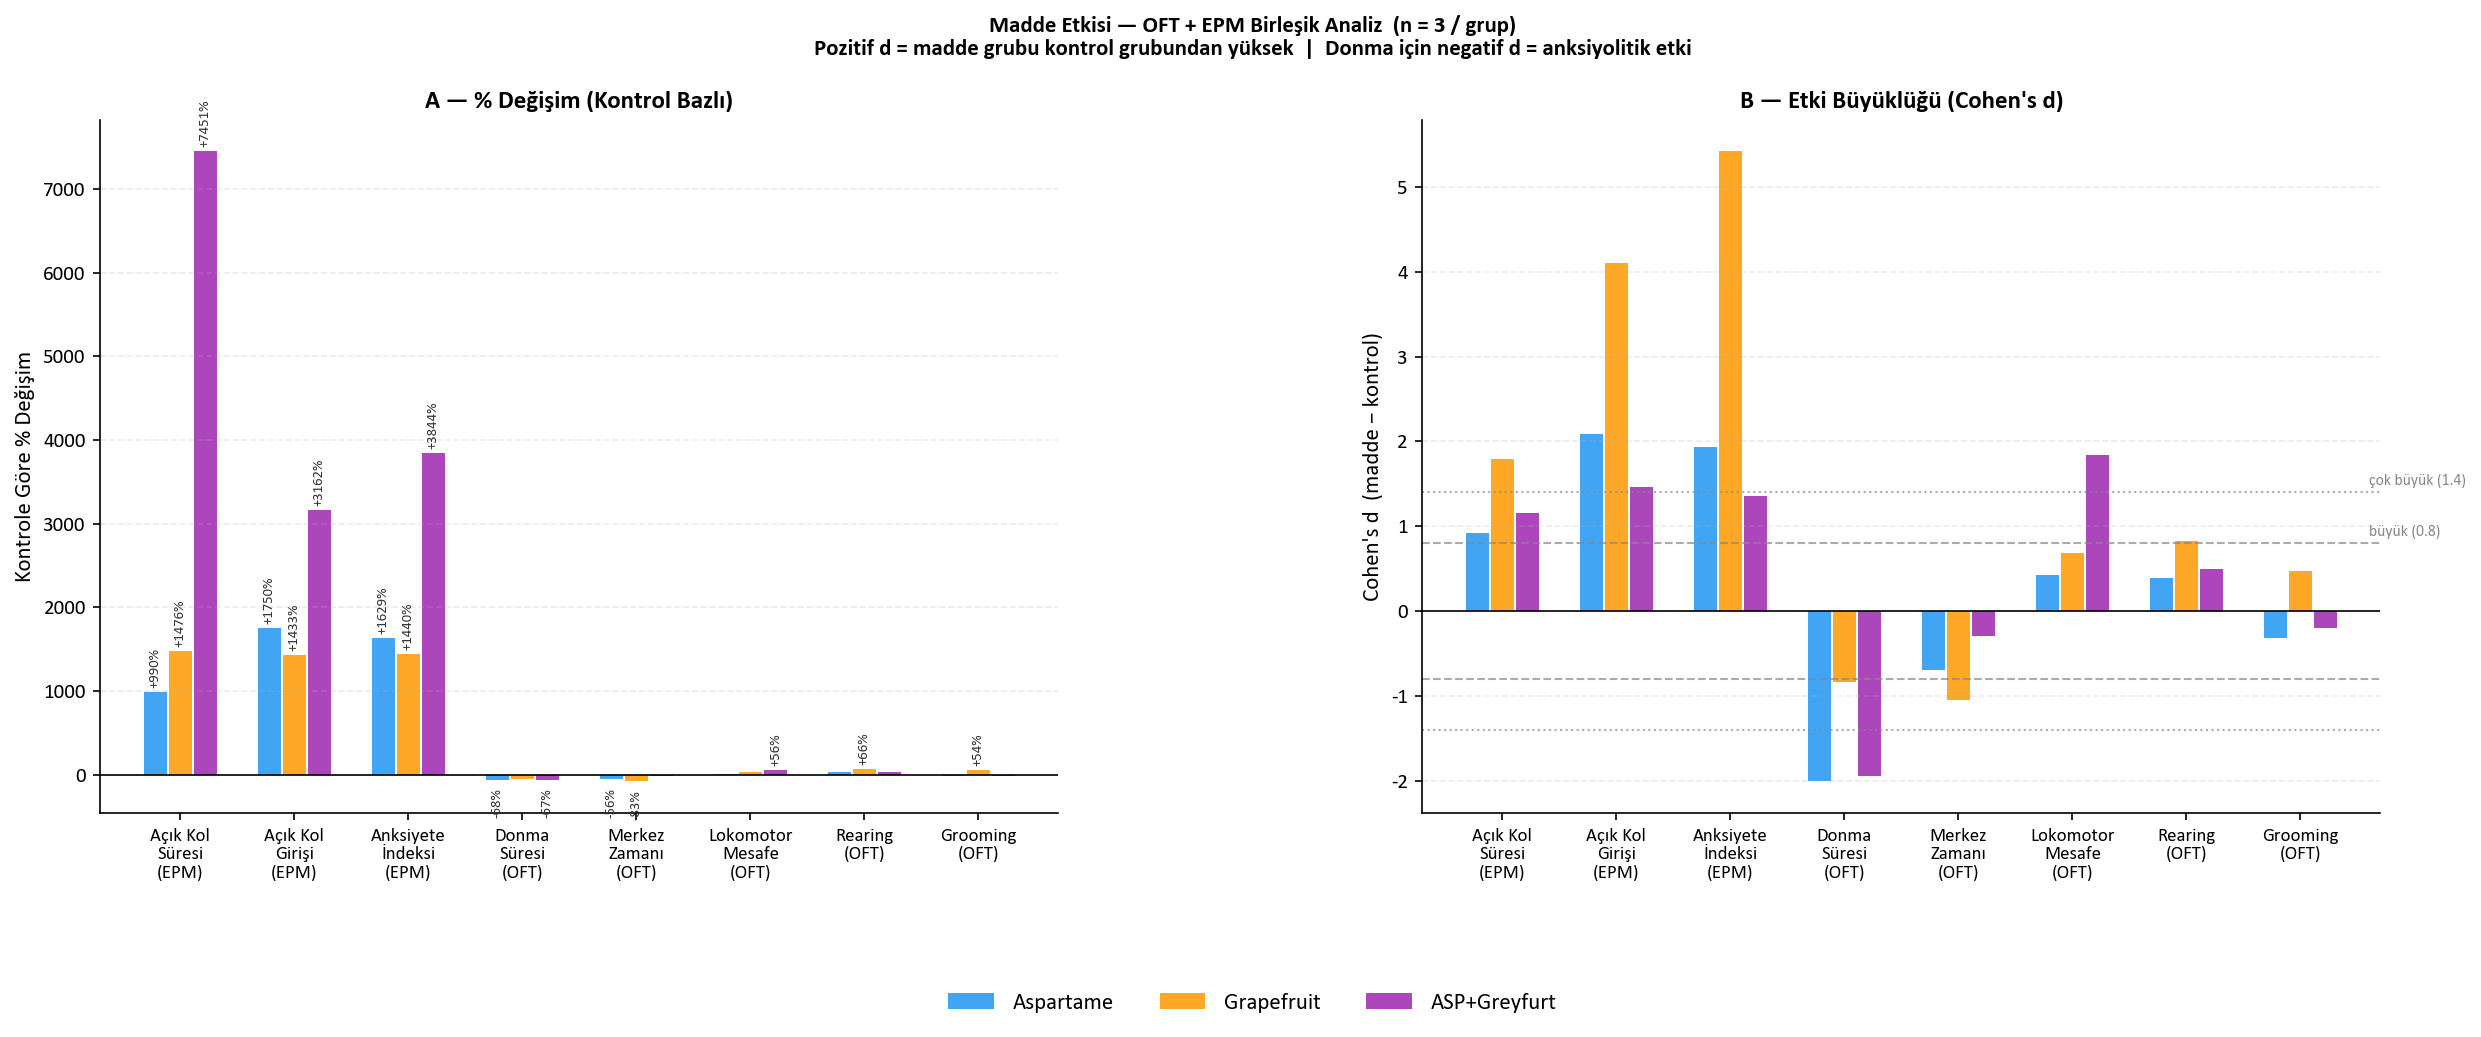
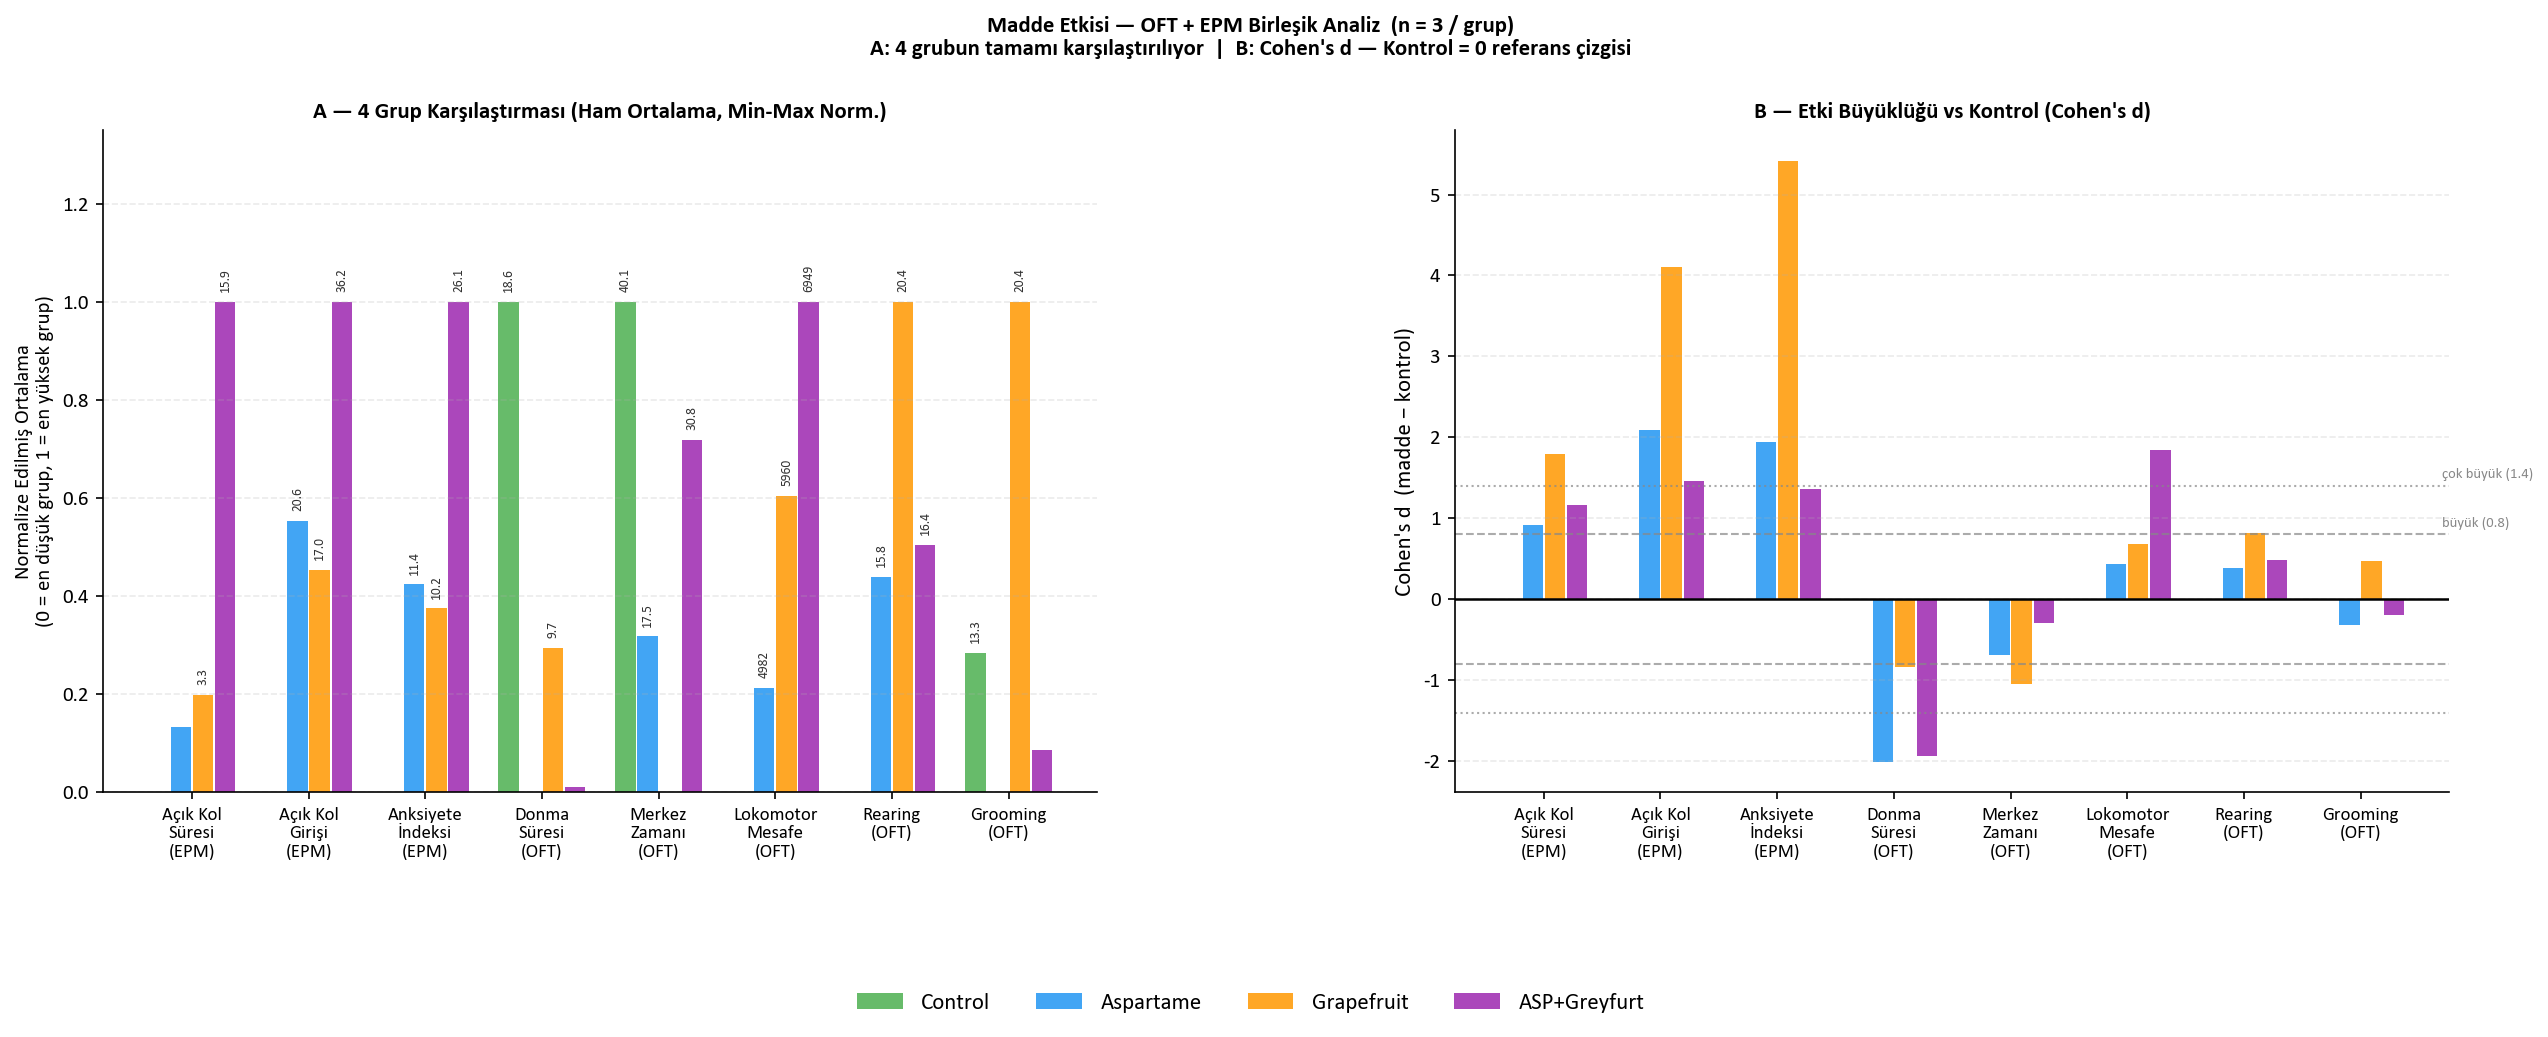
feat(analysis): include Control group in bar chart Panel A (4-group comparison)
Panel A: min-max normalized group means for all 4 cohorts side by side.
Panel B: Cohen's d for 3 treatment groups vs Control (Control = 0 reference line).

diff --git a/analysis/tmaze/behavioral_effect_analysis.py b/analysis/tmaze/behavioral_effect_analysis.py
@@ -241,97 +241,131 @@ def plot_radar(df: pd.DataFrame):
     print(f"[ok] {out}")
 
 
-# ─── ADIM 3: % değişim + Cohen's d bar chart ─────────────────────────────────
+# ─── ADIM 3: 4 grup karşılaştırma — ham ortalama + Cohen's d ─────────────────
 
-def plot_effect_bars(table: pd.DataFrame):
-    # Sadece EPM + ana OFT metrikleri
-    selected_metrics = [
-        "Açık Kol Süresi % (EPM)",
-        "Açık Kol Girişi % (EPM)",
-        "Anksiyete İndeksi (EPM)",
-        "Donma Süresi % (OFT)",
-        "Merkez Zamanı % (OFT)",
-        "Toplam Mesafe (OFT)",
-        "Rearing % (OFT)",
-        "Grooming % (OFT)",
-    ]
+# Ham sütun adları → gösterim etiketi eşlemesi
+METRIC_COL_MAP = {
+    "Açık Kol Süresi % (EPM)":   "pct_open_arm",
+    "Açık Kol Girişi % (EPM)":   "pct_open_arm_entries",
+    "Anksiyete İndeksi (EPM)":   "anxiety_index_epm",
+    "Donma Süresi % (OFT)":      "pct_time_freeze",
+    "Merkez Zamanı % (OFT)":     "pct_time_center",
+    "Toplam Mesafe (OFT)":       "total_distance_px",
+    "Rearing % (OFT)":           "rear_pct_time",
+    "Grooming % (OFT)":          "groom_pct_time",
+}
+
+SHORT_LABELS = [
+    "Açık Kol\nSüresi\n(EPM)",
+    "Açık Kol\nGirişi\n(EPM)",
+    "Anksiyete\nİndeksi\n(EPM)",
+    "Donma\nSüresi\n(OFT)",
+    "Merkez\nZamanı\n(OFT)",
+    "Lokomotor\nMesafe\n(OFT)",
+    "Rearing\n(OFT)",
+    "Grooming\n(OFT)",
+]
+
+
+def plot_effect_bars(df_raw: pd.DataFrame, table: pd.DataFrame):
+    """
+    Panel A — 4 grubun ham ortalaması, metrik başına min-max normalize edilmiş
+              (0 = en düşük grup, 1 = en yüksek grup)
+    Panel B — Cohen's d: 3 madde grubu vs Kontrol (Kontrol = 0 referans çizgisi)
+    """
+    selected_metrics = list(METRIC_COL_MAP.keys())
     df_sel = table[table["metrik"].isin(selected_metrics)].copy()
 
-    fig, axes = plt.subplots(1, 2, figsize=(16, 7))
-    fig.subplots_adjust(wspace=0.38, left=0.02, right=0.97, top=0.88, bottom=0.22)
+    # ── Panel A için grup ortalamalarını hesapla ve normalize et ─────────────
+    group_means = {}   # cohort -> [val_per_metric]
+    for cohort in COHORT_ORDER:
+        sub = df_raw[df_raw["cohort4"] == cohort]
+        vals = []
+        for label, col in METRIC_COL_MAP.items():
+            vals.append(sub[col].mean() if col in sub.columns else np.nan)
+        group_means[cohort] = np.array(vals, dtype=float)
 
-    bar_w = 0.22
+    # Min-max normalize: sütun bazında (metrik bazında) tüm 4 gruba göre
+    raw_matrix = np.array([group_means[c] for c in COHORT_ORDER])  # (4, 8)
+    col_min = np.nanmin(raw_matrix, axis=0)
+    col_max = np.nanmax(raw_matrix, axis=0)
+    col_rng = np.where(col_max - col_min > 0, col_max - col_min, 1.0)
+    norm_matrix = (raw_matrix - col_min) / col_rng  # 0-1
+
+    # ── Figür ─────────────────────────────────────────────────────────────────
+    fig, axes = plt.subplots(1, 2, figsize=(17, 7))
+    fig.subplots_adjust(wspace=0.36, left=0.05, right=0.97, top=0.87, bottom=0.24)
+
+    bar_w = 0.19
     x     = np.arange(len(selected_metrics))
-    short_labels = [
-        "Açık Kol\nSüresi\n(EPM)",
-        "Açık Kol\nGirişi\n(EPM)",
-        "Anksiyete\nİndeksi\n(EPM)",
-        "Donma\nSüresi\n(OFT)",
-        "Merkez\nZamanı\n(OFT)",
-        "Lokomotor\nMesafe\n(OFT)",
-        "Rearing\n(OFT)",
-        "Grooming\n(OFT)",
-    ]
 
-    # Panel A: % değişim
+    # ── Panel A: 4 grup ham ortalama (normalize) ──────────────────────────────
     ax = axes[0]
-    for i, sub in enumerate(SUBSTANCES):
-        sub_df  = df_sel[df_sel["madde"] == sub].set_index("metrik")
-        vals    = [sub_df.loc[m, "pct_degisim"] if m in sub_df.index else 0
-                   for m in selected_metrics]
-        offset  = (i - 1) * bar_w
-        bars = ax.bar(x + offset, vals, bar_w * 0.9,
-                      color=COHORT_COLORS[sub], alpha=0.85, label=sub)
-        for bar, v in zip(bars, vals):
-            if abs(v) > 50:
+    for i, cohort in enumerate(COHORT_ORDER):
+        offset = (i - 1.5) * bar_w
+        vals   = norm_matrix[i]
+        bars   = ax.bar(x + offset, vals, bar_w * 0.92,
+                        color=COHORT_COLORS[cohort], alpha=0.85, label=cohort)
+        # Ham değer etiketleri (büyük barlar için)
+        for bar, v_norm, (label, col) in zip(bars, vals, METRIC_COL_MAP.items()):
+            raw_val = group_means[cohort][list(METRIC_COL_MAP.keys()).index(label)]
+            if v_norm > 0.15:
+                txt = (f"{raw_val:.0f}" if raw_val >= 100
+                       else f"{raw_val:.1f}")
                 ax.text(bar.get_x() + bar.get_width() / 2,
-                        bar.get_height() + (50 if v >= 0 else -100),
-                        f"{v:+.0f}%",
-                        ha="center", va="bottom" if v >= 0 else "top",
-                        fontsize=7, rotation=90, color="#333333")
+                        bar.get_height() + 0.02,
+                        txt, ha="center", va="bottom",
+                        fontsize=6.5, color="#333333", rotation=90)
 
-    ax.axhline(0, color="black", linewidth=0.8)
     ax.set_xticks(x)
-    ax.set_xticklabels(short_labels, fontsize=9)
-    ax.set_ylabel("Kontrole Göre % Değişim", fontsize=11)
-    ax.set_title("A — % Değişim (Kontrol Bazlı)", fontsize=12, fontweight="bold")
+    ax.set_xticklabels(SHORT_LABELS, fontsize=9)
+    ax.set_ylabel("Normalize Edilmiş Ortalama\n(0 = en düşük grup, 1 = en yüksek grup)",
+                  fontsize=10)
+    ax.set_ylim(0, 1.35)
+    ax.set_title("A — 4 Grup Karşılaştırması (Ham Ortalama, Min-Max Norm.)",
+                 fontsize=11, fontweight="bold")
     ax.grid(axis="y", alpha=0.25, linestyle="--")
     ax.spines[["top", "right"]].set_visible(False)
 
-    # Panel B: Cohen's d
+    # ── Panel B: Cohen's d (3 madde vs Kontrol, Kontrol = 0) ─────────────────
     ax = axes[1]
-    for i, sub in enumerate(SUBSTANCES):
-        sub_df  = df_sel[df_sel["madde"] == sub].set_index("metrik")
-        vals    = [sub_df.loc[m, "cohens_d"] if m in sub_df.index else 0
-                   for m in selected_metrics]
-        offset  = (i - 1) * bar_w
-        bars = ax.bar(x + offset, vals, bar_w * 0.9,
-                      color=COHORT_COLORS[sub], alpha=0.85, label=sub)
+    # Kontrol = 0 referans barı (görünmez ama legend'a eklenir)
+    ax.bar(x - 1.5 * bar_w, np.zeros(len(x)), bar_w * 0.92,
+           color=COHORT_COLORS["Control"], alpha=0.85, label="Control (referans = 0)")
 
-    # Etki büyüklüğü referans çizgileri
+    for i, sub in enumerate(SUBSTANCES):
+        sub_df = df_sel[df_sel["madde"] == sub].set_index("metrik")
+        vals   = [sub_df.loc[m, "cohens_d"] if m in sub_df.index else 0
+                  for m in selected_metrics]
+        offset = (i - 0.5) * bar_w   # Control barı için yer bırak: offset i=0,1,2 → -0.5,0.5,1.5
+        ax.bar(x + offset, vals, bar_w * 0.92,
+               color=COHORT_COLORS[sub], alpha=0.85, label=sub)
+
     for val, lbl, ls in [(0.8, "büyük (0.8)", "--"), (1.4, "çok büyük (1.4)", ":")]:
         ax.axhline( val, color="#888888", linewidth=1, linestyle=ls, alpha=0.7)
         ax.axhline(-val, color="#888888", linewidth=1, linestyle=ls, alpha=0.7)
-        ax.text(len(selected_metrics) - 0.4, val + 0.05, lbl,
-                fontsize=7.5, color="#888888", va="bottom")
+        ax.text(len(x) - 0.3, val + 0.06, lbl,
+                fontsize=7, color="#888888", va="bottom")
 
-    ax.axhline(0, color="black", linewidth=0.8)
+    ax.axhline(0, color="black", linewidth=1.2, label="Kontrol (d = 0)")
     ax.set_xticks(x)
-    ax.set_xticklabels(short_labels, fontsize=9)
+    ax.set_xticklabels(SHORT_LABELS, fontsize=9)
     ax.set_ylabel("Cohen's d  (madde − kontrol)", fontsize=11)
-    ax.set_title("B — Etki Büyüklüğü (Cohen's d)", fontsize=12, fontweight="bold")
+    ax.set_title("B — Etki Büyüklüğü vs Kontrol (Cohen's d)",
+                 fontsize=11, fontweight="bold")
     ax.grid(axis="y", alpha=0.25, linestyle="--")
     ax.spines[["top", "right"]].set_visible(False)
 
-    handles = [mpatches.Patch(facecolor=COHORT_COLORS[s], alpha=0.85, label=s)
-               for s in SUBSTANCES]
-    fig.legend(handles=handles, loc="lower center", ncol=3,
+    # Ortak legend — 4 renk + kontrol çizgisi
+    handles = [mpatches.Patch(facecolor=COHORT_COLORS[c], alpha=0.85, label=c)
+               for c in COHORT_ORDER]
+    fig.legend(handles=handles, loc="lower center", ncol=4,
                fontsize=11, frameon=False, bbox_to_anchor=(0.5, 0.01))
 
     fig.suptitle(
         "Madde Etkisi — OFT + EPM Birleşik Analiz  (n = 3 / grup)\n"
-        "Pozitif d = madde grubu kontrol grubundan yüksek  |  "
-        "Donma için negatif d = anksiyolitik etki",
+        "A: 4 grubun tamamı karşılaştırılıyor  |  "
+        "B: Cohen's d — Kontrol = 0 referans çizgisi",
         fontsize=11, fontweight="bold",
     )
 
@@ -377,8 +411,8 @@ def main():
     plot_radar(df)
 
     # Adım 3 — Bar chart
-    print("\n[Adım 3] % değişim + Cohen's d bar chart...")
-    plot_effect_bars(table)
+    print("\n[Adım 3] 4 grup karşılaştırma + Cohen's d bar chart...")
+    plot_effect_bars(df, table)
 
     print(f"\n{'='*55}")
     print(f"Tüm çıktılar: {OUT_DIR}")
